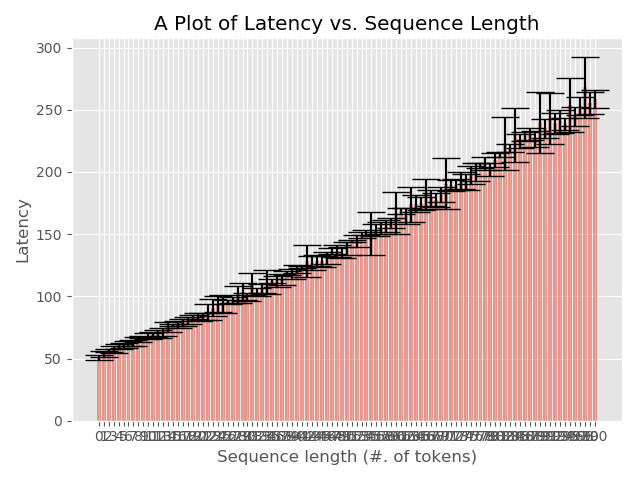
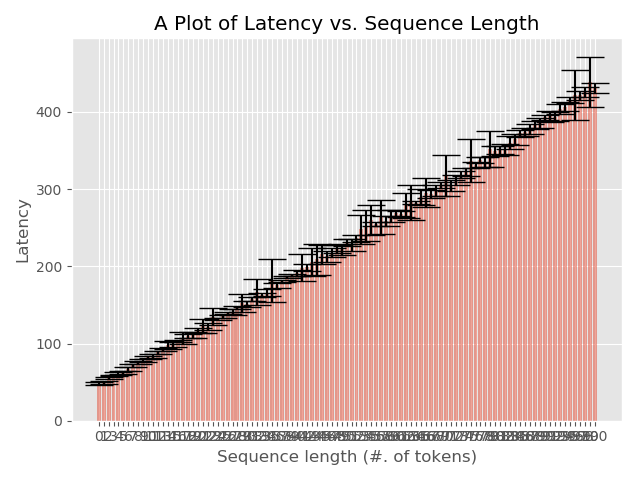
fix errors

diff --git a/fairseq/data/encoders/gpt2_bpe.py b/fairseq/data/encoders/gpt2_bpe.py
@@ -35,7 +35,7 @@ class GPT2BPE(object):
 
     def encode(self, x: str) -> str:
         # from fairseq import pdb; pdb.set_trace()
-        a = list(map(str, self.bpe.encode(x)))[:200]
+        a = list(map(str, self.bpe.encode(x)))[:400]
         return " ".join(a)
 
     def decode(self, x: str) -> str:
